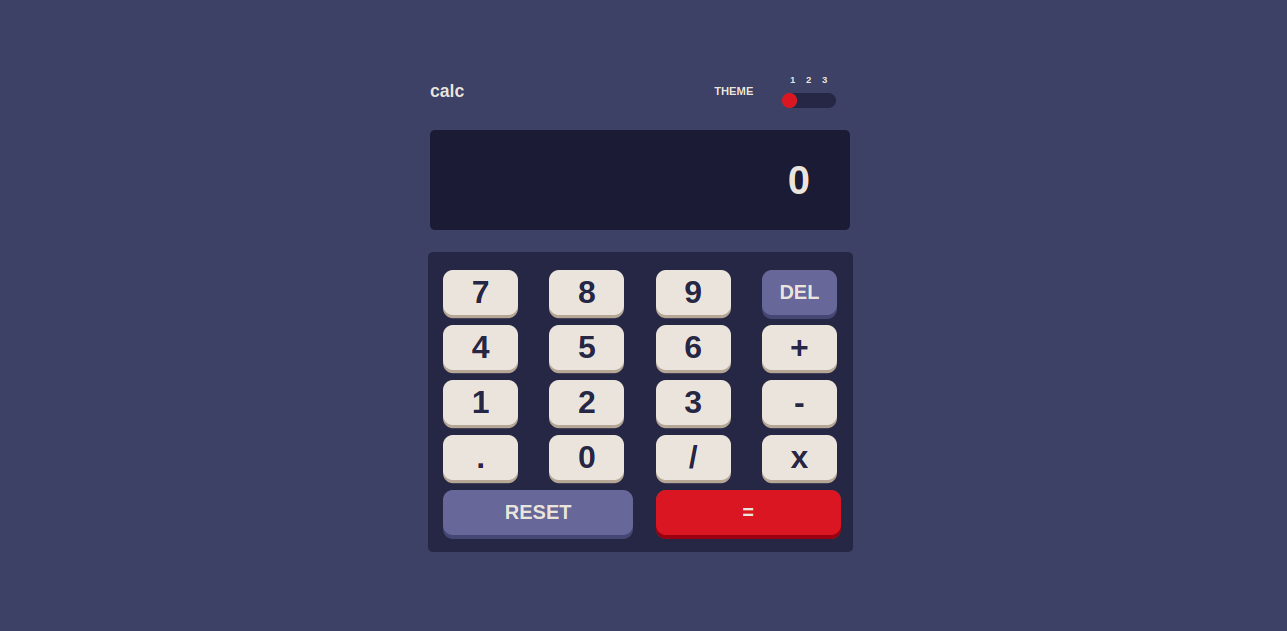
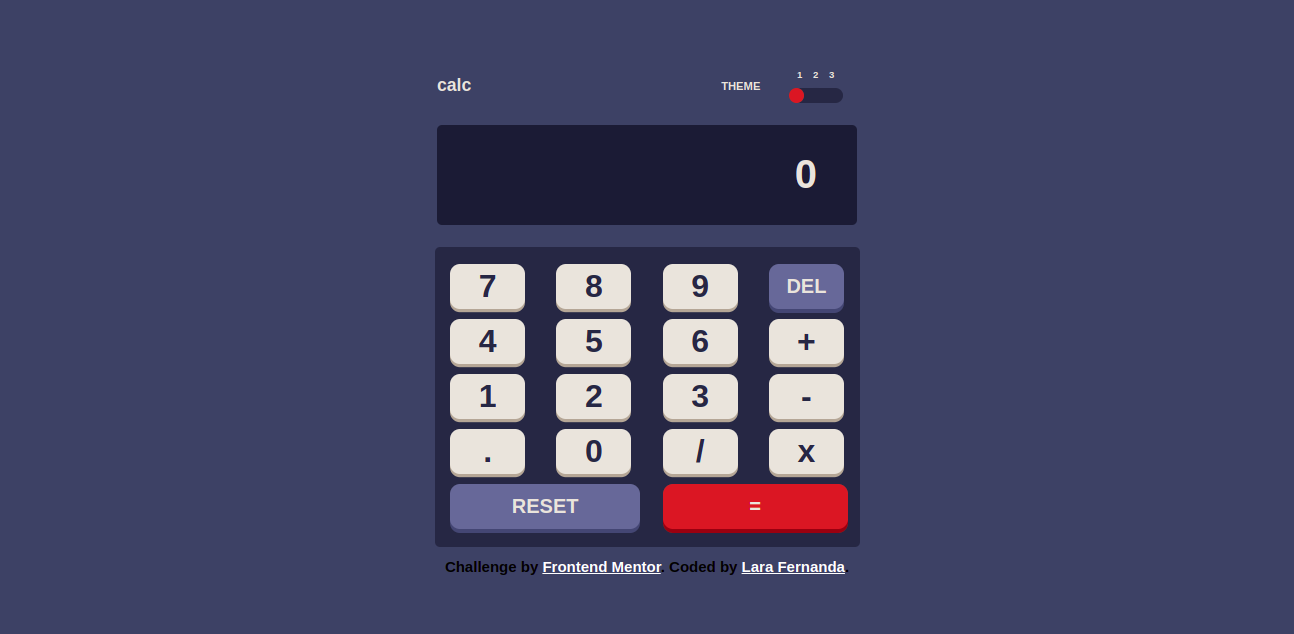
Desafio do FrontendMentor

diff --git a/src/scss/_theme2.scss b/src/scss/_theme2.scss
@@ -135,7 +135,7 @@ div.calculatorTheme2 {
         font-size: 15px;
 
         a {
-            color: #fff;
+            color: #000;
         }
     }
 }
